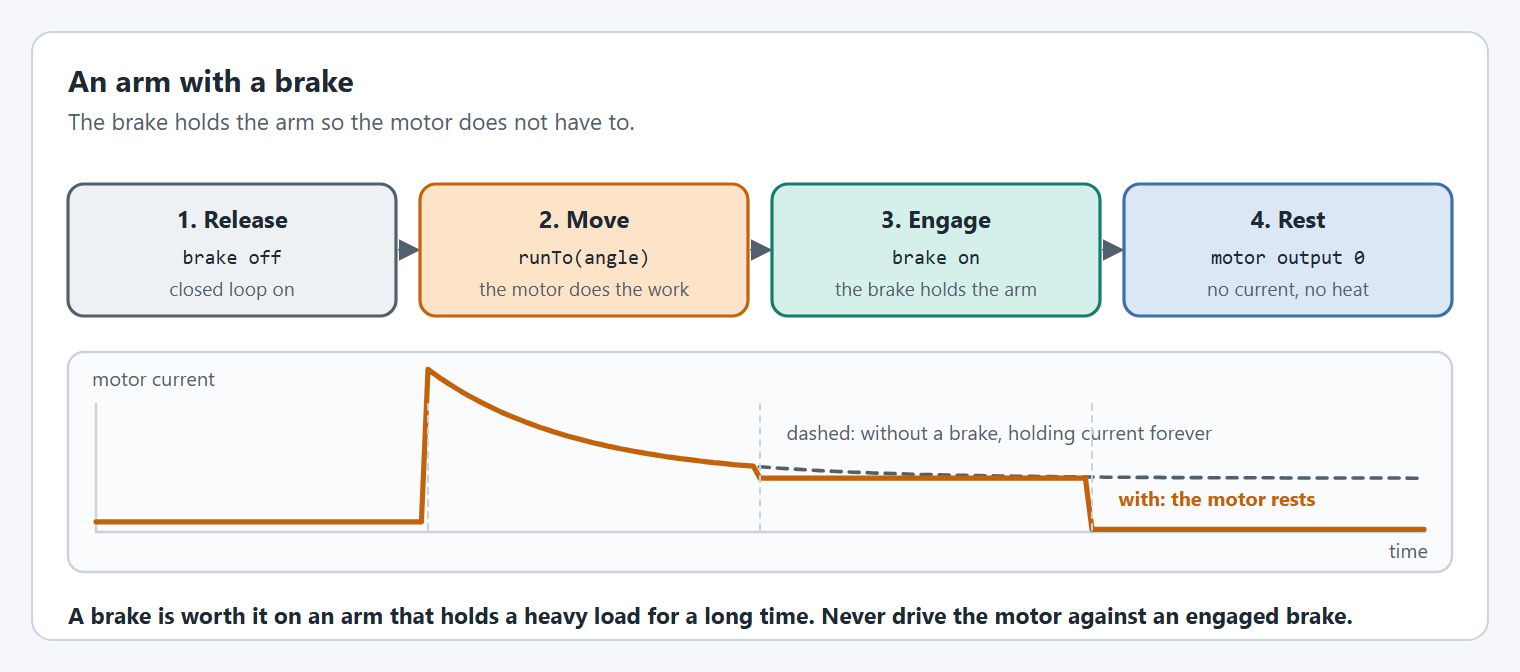
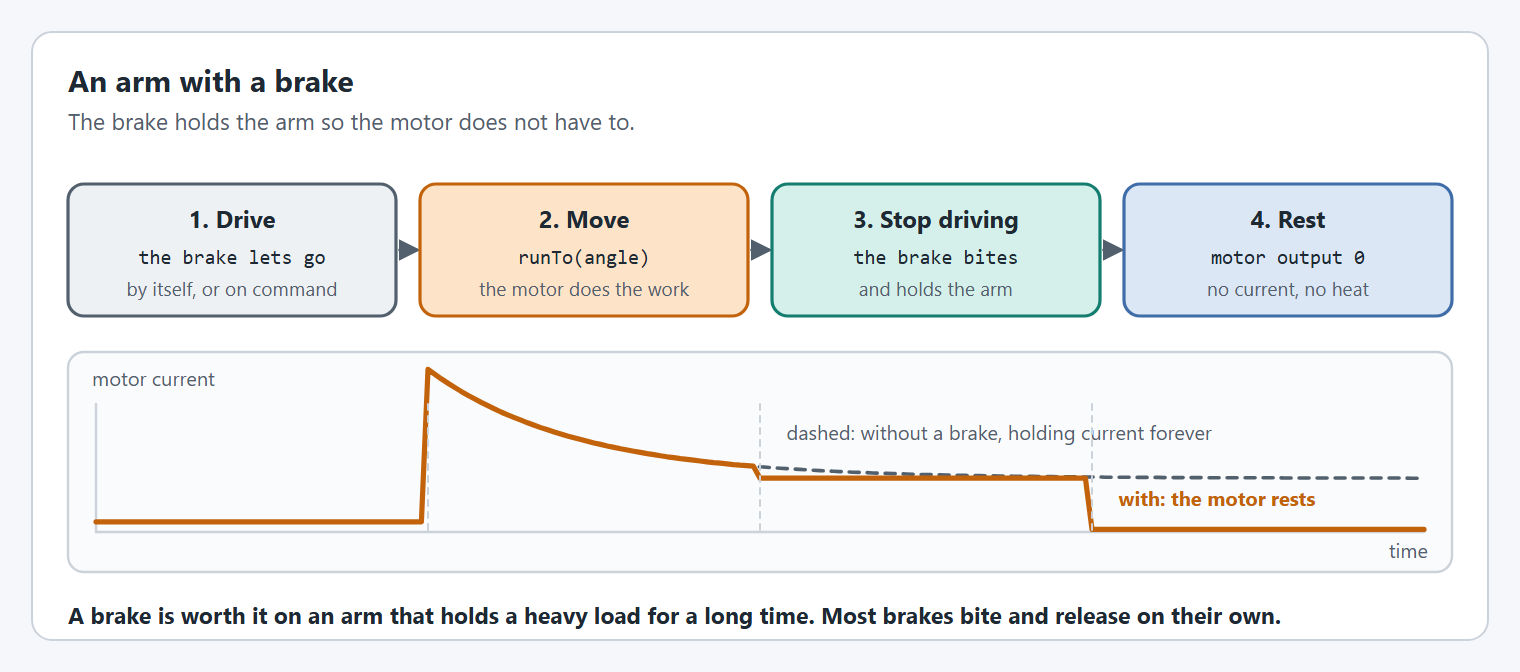
Arms with a brake: most brakes are automatic, and the steps are suggestions
The section leads with automatic brakes, which bite and release on their own, and keeps the
sequenced version for brakes the code controls. What to aim for and what to check while
tuning are presented as suggestions, since an automatic brake does not allow every one.

diff --git a/details/arms.md b/details/arms.md
@@ -220,20 +220,60 @@ YAMS reads an absolute encoder through the motor controller, so it must be one t
 
 ## Arms with a brake
 
-Some arms have a mechanical brake: a disc or ratchet released by a solenoid, a servo or a second motor. The brake holds the arm so the motor can stop working, which saves battery and keeps the motor cool on an arm that holds a heavy load for a long time.
+Some arms have a brake module that holds the arm so the motor can stop working. That saves battery and keeps the motor cool on an arm that holds a heavy load for a long time.
 
-<figure><img src="../.gitbook/assets/mech-arm-brake.png" alt="Four steps: release the brake with the closed loop on; move with runTo; engage the brake so it holds the arm; then set the motor output to zero so it draws no current and makes no heat. A graph of motor current shows a spike while moving, a steady holding current until the brake engages, and then almost none, where an arm without a brake would draw holding current forever."><figcaption><p>Release, move, engage, then rest the motor.</p></figcaption></figure>
+<figure><img src="../.gitbook/assets/mech-arm-brake.png" alt="Four stages: when the motor drives, the brake lets go, by itself or on command; the arm moves with runTo; when the motor stops driving, the brake bites and holds the arm; then the motor output is zero, so it draws no current and makes no heat. A graph of motor current shows a spike while moving, a steady holding current until the brake bites, and then almost none, where an arm without a brake would draw holding current forever."><figcaption><p>The brake holds the arm once the motor stops driving it.</p></figcaption></figure>
 
 {% hint style="info" %}
-This is not `MotorMode.BRAKE`. [Brake mode](editor/config/motor-basics.md#withzeropower) is electrical: it resists movement but cannot hold an arm up. A mechanical brake can. YAMS has no brake class of its own, so the brake is an ordinary actuator in the same subsystem as the arm, and you sequence it around the arm's commands.
+This is not `MotorMode.BRAKE`. [Brake mode](editor/config/motor-basics.md#withzeropower) is electrical: it resists movement but cannot hold an arm up. A brake module is mechanical, and can.
 {% endhint %}
 
-The rule is to never drive the motor against an engaged brake:
+Most brake modules are **automatic**: they bite on their own when the motor stops driving and let go when it drives again, with nothing for your code to command. Some are **manual**, released by a solenoid or a servo that your code controls. Check which yours is, because it changes what you can do. YAMS has no brake class of its own for either kind.
 
-1. Release the brake, and make sure the closed loop is running.
-2. Move with `runTo`, which ends when the arm arrives.
-3. Engage the brake.
-4. Set the motor's output to zero.
+### What to aim for
+
+These are suggestions, not rules. With an automatic brake you do not control when it bites, so you cannot always follow them. Get as close as your brake allows.
+
+* **Let the brake do the holding.** Once the arm has arrived, stop driving the motor so the brake takes the load. An arm that keeps holding its setpoint against the brake gains nothing from having one.
+* **Avoid driving against the brake.** A motor pushing on an engaged brake heats up and wears the brake. With an automatic brake some of this is unavoidable at the start of each move, while the brake lets go.
+* **Avoid a default command that holds an angle.** It keeps the motor driving, which is the opposite of resting. Prefer no default command, or one that does nothing.
+* **Allow for the brake's timing.** A brake takes a moment to bite and to let go. Expect a small lurch or sag at each end of a move, and allow for it where you can.
+
+### With an automatic brake
+
+There is nothing to command. Move, then rest the motor and let the brake bite:
+
+{% tabs %}
+{% tab title="Commands v2" %}
+```java
+public Command moveTo(Angle angle)
+{
+  return runOnce(() -> arm.getMotorController().startClosedLoopController()) // driving releases the brake
+      .andThen(arm.runTo(angle, Degrees.of(2)))                               // move
+      .finallyDo(() -> arm.setDutyCycleSetpoint(0));                          // rest: the brake bites
+}
+```
+{% endtab %}
+
+{% tab title="Commands v3" %}
+```java
+public Command moveTo(Angle angle)
+{
+  return run(coroutine -> {
+    arm.getMotorController().startClosedLoopController();  // driving releases the brake
+    coroutine.await(arm.runTo(angle, Degrees.of(2)));      // move
+    arm.setDutyCycleSetpoint(0);                           // rest: the brake bites
+  }).whenCanceled(() -> arm.setDutyCycleSetpoint(0)).named("Arm Move And Rest");
+}
+```
+{% endtab %}
+{% endtabs %}
+
+`setDutyCycleSetpoint(0)` stops the closed loop controller, which is why each move starts it again.
+
+### With a manual brake
+
+If your code controls the brake, you can order things so the motor and the brake never fight:
 
 {% tabs %}
 {% tab title="Commands v2" %}
@@ -242,13 +282,13 @@ The rule is to never drive the motor against an engaged brake:
 public Command moveTo(Angle angle)
 {
   return runOnce(() -> {
-        brake.set(false);                                    // 1. release
+        brake.set(false);                                    // release
         arm.getMotorController().startClosedLoopController();
       })
-      .andThen(arm.runTo(angle, Degrees.of(2)))              // 2. move
+      .andThen(arm.runTo(angle, Degrees.of(2)))              // move
       .finallyDo(() -> {
-        brake.set(true);                                     // 3. engage, even if interrupted
-        arm.setDutyCycleSetpoint(0);                         // 4. rest the motor
+        brake.set(true);                                     // engage, even if interrupted
+        arm.setDutyCycleSetpoint(0);                         // rest the motor
       });
 }
 ```
@@ -260,28 +300,23 @@ public Command moveTo(Angle angle)
 public Command moveTo(Angle angle)
 {
   return run(coroutine -> {
-    brake.set(false);                                      // 1. release
+    brake.set(false);                                      // release
     arm.getMotorController().startClosedLoopController();
-    coroutine.await(arm.runTo(angle, Degrees.of(2)));      // 2. move
+    coroutine.await(arm.runTo(angle, Degrees.of(2)));      // move
     engageBrake();
   }).whenCanceled(this::engageBrake).named("Arm Move And Brake");
 }
 
 private void engageBrake()
 {
-  brake.set(true);                                         // 3. engage
-  arm.setDutyCycleSetpoint(0);                             // 4. rest the motor
+  brake.set(true);                                         // engage
+  arm.setDutyCycleSetpoint(0);                             // rest the motor
 }
 ```
 {% endtab %}
 {% endtabs %}
 
-Things to get right:
-
-* **No holding default command.** A default command that holds an angle would drive the motor against the brake. With a brake, the arm's resting state is braked with the motor off, so give it no default command or one that does nothing.
-* **Give the brake time.** If your brake takes a moment to release or to bite, wait that long after step 1 and before step 4, or the arm will jerk or sag.
-* **Restart the closed loop.** `setDutyCycleSetpoint(0)` stops the closed loop controller. `startClosedLoopController()` in step 1 brings it back before the next move.
-* **Soft limits still apply** while moving. The brake does not replace them.
+Soft limits still apply while the arm moves, with either kind of brake. The brake does not replace them.
 
 ## Configuring and tuning an arm, step by step
 
@@ -375,39 +410,15 @@ Test near both limits, straight up, level, and holding a game piece. If the load
 
 ### Tuning an arm with a brake
 
-Tune the arm completely with the brake released and left alone, following the steps above. Then add the brake:
+Tune the arm itself with the steps above first. If your brake can be held off, hold it off while you do. If it is automatic and cannot be, tune with it in place and expect the gains to carry a little of its drag.
 
-{% stepper %}
-{% step %}
-#### Time the brake
+Then look at how the arm and the brake work together. These are things to check and try, not steps that every brake allows:
 
-Command the brake on and off with the arm supported, and time how long it takes to bite and to let go. Those are the waits you need.
-{% endstep %}
-
-{% step %}
-#### Check the release
-
-Run a move. If the arm lurches at the start, the motor started before the brake let go: wait longer after releasing.
-{% endstep %}
-
-{% step %}
-#### Check the engage
-
-Watch `mechanism/position` as the brake goes on. If the arm sags, the motor let go before the brake held: engage the brake first, wait, then set the output to zero.
-{% endstep %}
-
-{% step %}
-#### Check the rest
-
-With the arm braked, `current/stator` should be close to zero. If it is not, something is still commanding the motor: look for a default command that holds a setpoint.
-{% endstep %}
-
-{% step %}
-#### Loosen the tolerance if it hunts
-
-A brake holds wherever it bites. If `runTo` takes a long time to finish, widen its tolerance: the last fraction of a degree is not worth the wait when the brake will hold it anyway.
-{% endstep %}
-{% endstepper %}
+* **Watch the start of a move.** A lurch or a spike in `current/stator` at the start is the motor pushing on a brake that has not let go yet. A slower start to the [profile](editor/config/motion-profiles.md#withtrapezoidalprofile) gives an automatic brake time to release. With a manual brake, release it a moment earlier.
+* **Watch the end of a move.** If `mechanism/position` sags as the brake bites, the motor let go before the brake held. With a manual brake, engage it before resting the motor. With an automatic one, a sag of a known size can be allowed for in the setpoint.
+* **Check the rest.** With the arm braked, `current/stator` should be close to zero. If it is not, something is still commanding the motor: look for a default command that holds a setpoint.
+* **Widen the tolerance if it hunts.** A brake holds wherever it bites. If `runTo` takes a long time to finish, the last fraction of a degree is not worth the wait.
+* **Keep an eye on `motor/temperature`** over a few minutes of use. If the motor still runs hot, it is working against the brake somewhere.
 
 ## ArmConfig options
 
